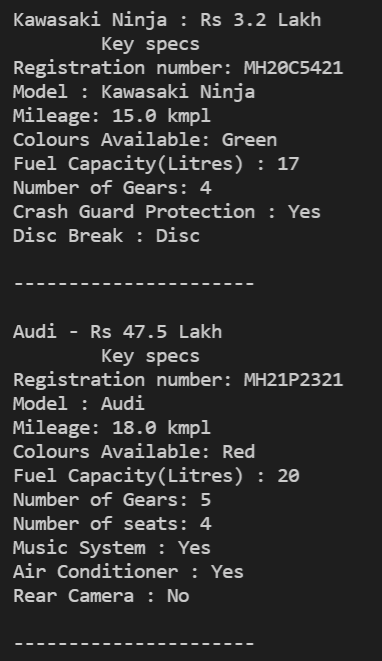
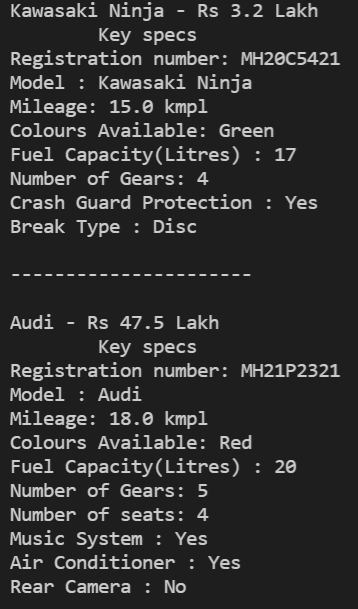
Data added in Bike and Car classes

diff --git a/src/main/java/io/sevenx/vehiclecity/data/Bike.java b/src/main/java/io/sevenx/vehiclecity/data/Bike.java
@@ -16,9 +16,9 @@ public class Bike extends Vehicle{
 
     public void getInfo()
     {
-        System.out.println(getVehicleModel()+" : Rs "+getPrice() + " Lakh");
+        System.out.println(getVehicleModel()+" - Rs "+getPrice() + " Lakh");
         super.getInfo();
         System.out.println("Crash Guard Protection : "+ (hasCrashGuard ? "Yes" : "No"));
-        System.out.println("Disc Break : "+ breakType);
+        System.out.println("Break Type : "+ breakType);
     }
 }
